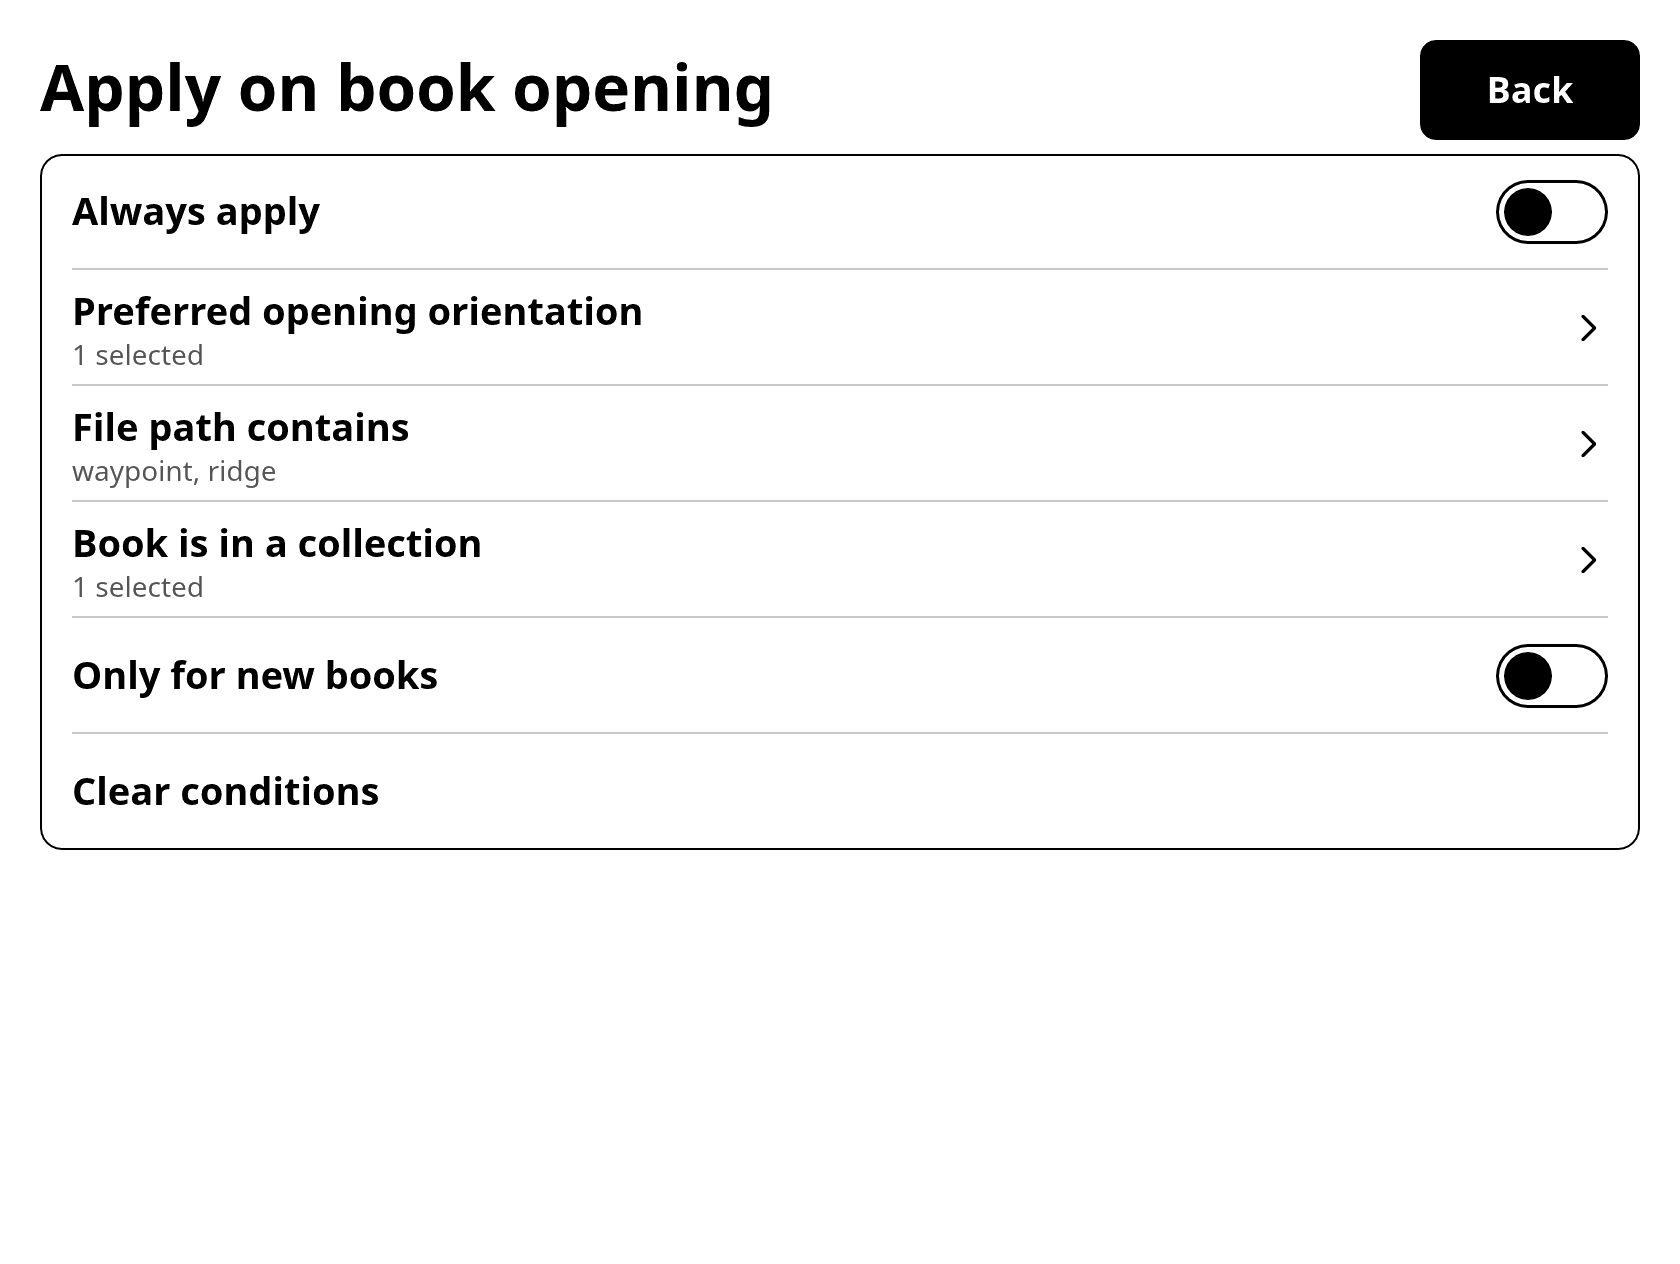
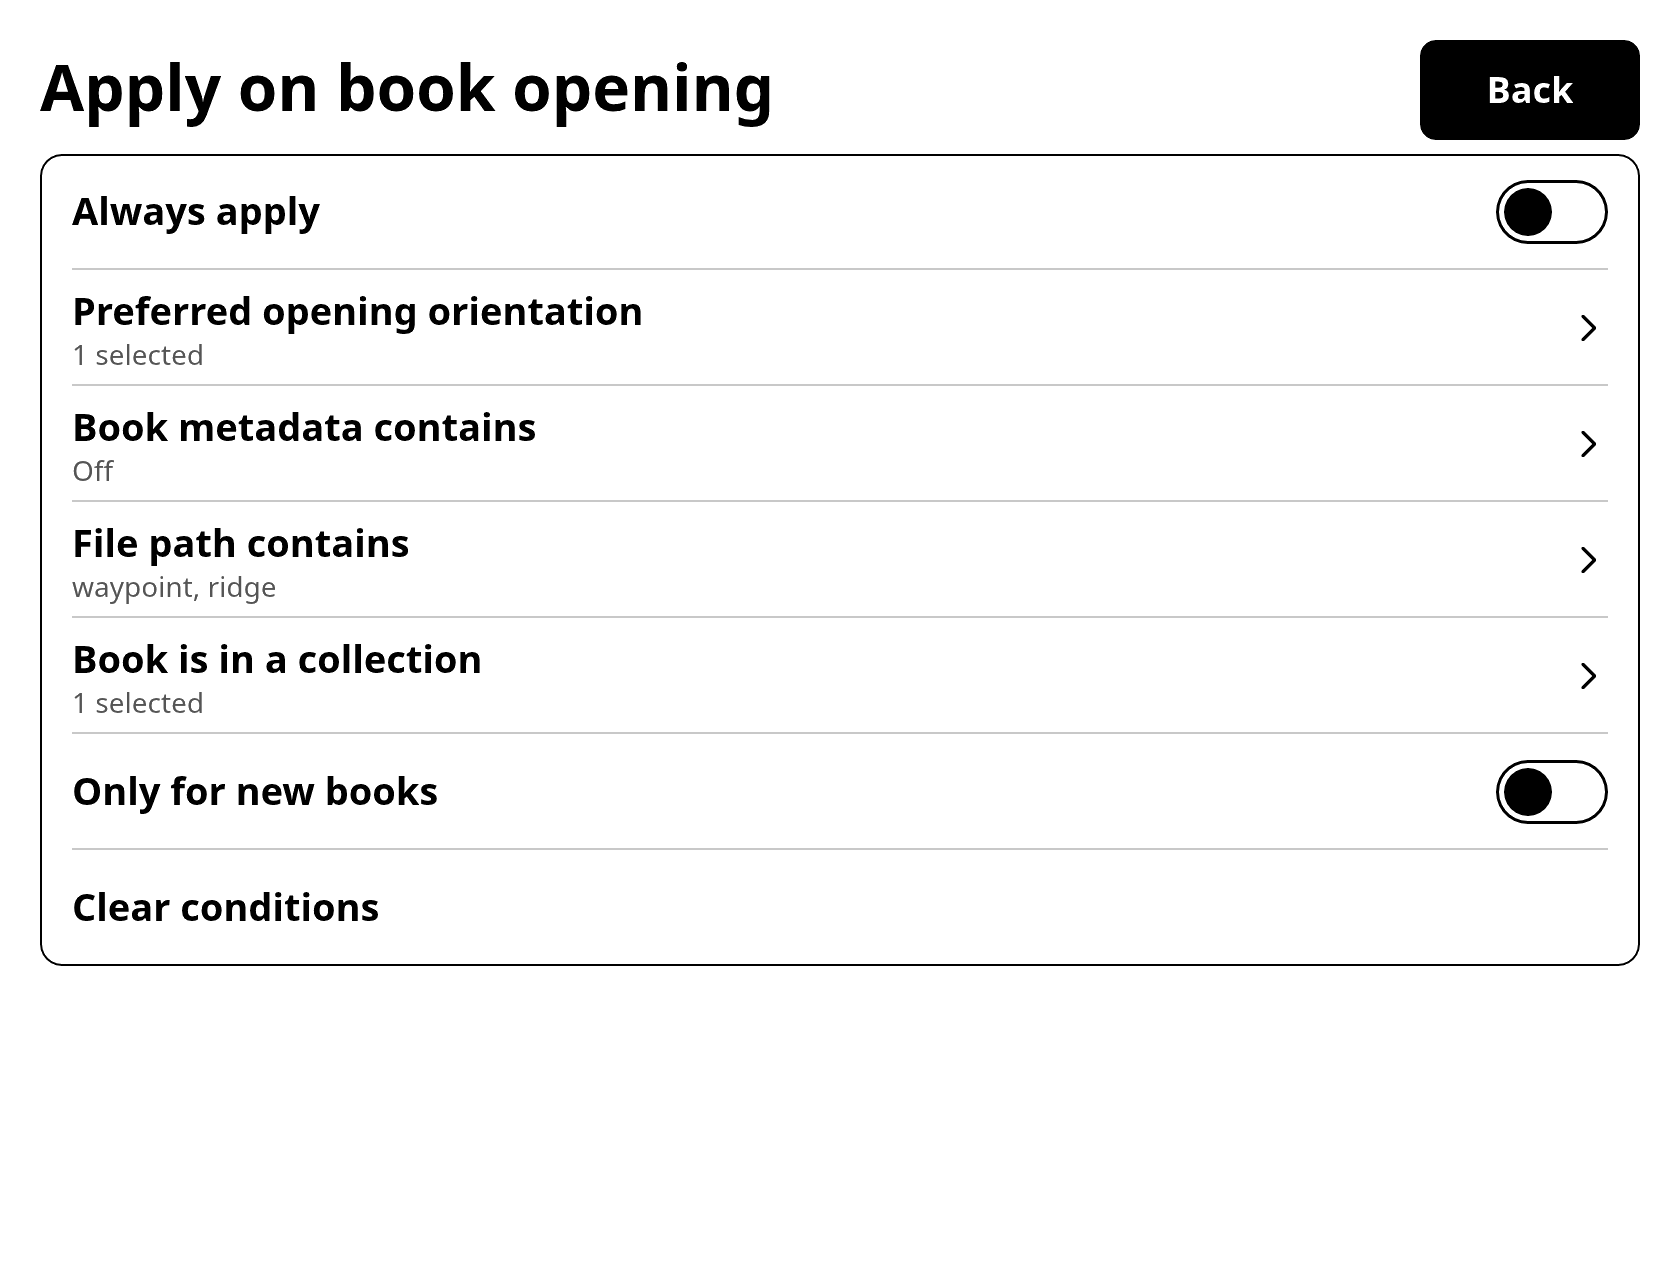
Record the accepted-turn, metadata, calendar and layout checks

diff --git a/docs/simulation-review.md b/docs/simulation-review.md
@@ -2,6 +2,53 @@
 
 ## Current Mac simulator checkpoint
 
+Reader composes book-opening profiles against the accepted screen turn
+when Launcher offers a verified viewport. The Mac transactions preserve
+the EPUB anchor, resolve competing metadata and orientation rules in list
+order, and match the committed reading frame to the candidate byte for
+byte. The PDF test rejects a landscape opening, turns a page in the
+fallback, then commits against the verified fallback turn. The desktop
+API and older Launchers continue to use the saved orientation preference.
+[Opening profiles and screenshots](reading-profiles.md#apply-a-profile-on-book-opening)
+
+Opening rules can match seven publisher metadata fields. The pinned stock
+profile callbacks and native EPUB, PDF, DjVu, and comic providers were
+checked against authored examples. Reader can fill a condition from the
+current book, including Unicode characters, and uses a filename title
+when the provider has none.
+[Metadata fields](screenshots/landscape-profile-opening-metadata.png) ·
+[Native provider comparison](../scripts/koreader-profile-metadata-providers.lua)
+
+The portrait calendar can jump to a typed month, the first recorded month,
+or the current month. Returning from a day timeline opens the month of the
+day reached. The pinned stock callbacks and Mac interaction tests cover
+these paths while preserving the reading position and statistics.
+[Calendar controls and captures](reading-statistics.md#jumping-to-a-month)
+
+The signed EPUB layout policy matches KOReader Web's paint bands for
+two negative sides, a paragraph in width-neutral wrappers, and text and
+background that extend beyond either physical screen edge. Reader clips
+the displayed selection while restoring the complete source quote.
+[Screen-edge clipping and comparisons](render-modes.md#two-negative-sides-and-clipping-at-the-screen-edge)
+
+The four-thread Mac suite passed 1,385 library tests, one Kindle entry
+test, 14 EPUB package tests, and four layout tests. Sixty-seven opt-in
+tests were skipped in the main run. The normal picker opened original
+EPUB, PDF, AZW3 and MOBI files, turned a page, and resumed at the same
+saved position with identical central page pixels and unchanged source
+hashes. The separate original-file statistics and positive-margin tests
+also passed.
+
+The Mac ARMHF release build produced a stripped, statically linked
+37,361,684-byte executable with SHA-256
[1 lines of base64/hex data omitted]
+The local hard-float stage assembled 28 files totaling 46,935,533 bytes
+uncompressed and verified the SQLite notices, embedded Launcher icon,
+and OCR model. Kindle foreground acceptance and the Store release remain
+open.
+
+## Opening conditions and grouped dictionary history checkpoint
+
 The opening-profile simulator checks conditional file paths, collections,
 preferred orientation and first-time reading. The pinned KOReader callbacks
 confirm that any configured condition can match and that the new-book gate

diff --git a/docs/reading-parity-plan.md b/docs/reading-parity-plan.md
@@ -88,14 +88,18 @@ Saved profile editing covers reflow typography, hinting, kerning,
 publisher styles and fonts, image rendering, page overlap, PDF crop
 margin, and PDF or comic scan contrast. Enabled profiles can also apply
 their included settings whenever Reader opens a matching book. The opening
-rules cover file path, collections, preferred orientation, and a separate
-new-book requirement. The orientation rule still needs to use the turn
-accepted by the display.
+rules cover file path, collections, seven metadata fields and a separate
+new-book requirement. They also use the screen turn accepted when Launcher
+offers a verified viewport. Older Launchers and the desktop API use the
+saved preference when the accepted turn is unavailable.
 Reading statistics has a whole-second duration editor with the stock
 bounds, steps, defaults and accounting. It can preview and import dated
 visits for the open PDF or self-contained DjVu book from a closed KOReader
 database chosen in Documents. Reflowable book import still needs a stable
-mapping from KOReader pages to source locations. Dictionary result arrows
+mapping from KOReader pages to source locations. The calendar can jump to
+a typed month, the first recorded month or the current month. Returning
+from a day timeline brings the calendar to the day reached in the timeline.
+Dictionary result arrows
 support held jumps to the first and last definition and
 preserve an armed highlight while switching sources. Named dictionary
 presets manage source enablement, report unavailable dictionary titles and
@@ -107,6 +111,7 @@ and provides its own recording and clearing controls.
 [Opening profiles](reading-profiles.md#apply-a-profile-on-book-opening) ·
 [Page duration limits](reading-statistics.md#page-duration-limits) ·
 [Fixed-page statistics import](reading-statistics.md#import-koreader-statistics-for-a-pdf-or-djvu-book) ·
+[Calendar month navigation](reading-statistics.md#jumping-to-a-month) ·
 [Dictionary result navigation](dictionary-popup-display.md#first-and-last-results) ·
 [One-query preset](shared-dictionaries.md#searching-with-a-preset-once) ·
 [Dictionary history](shared-dictionaries.md#dictionary-history)
@@ -117,8 +122,9 @@ centered container around ordinary paragraphs. They also match
 the measured definite box heights and preserve text and source positions when
 a box's background fills across a page break. In supported ordinary
 paragraphs, the opt-in policies also match stock's positive physical
-margins, Web mode's single bounded negative side, and explicit opening
-breaks inside keep groups and beside a sibling keep. Full Render Mode
+margins, Web mode's signed sides with physical screen clipping inside
+ordinary wrappers, and explicit opening breaks inside keep groups and
+beside a sibling keep. Full Render Mode
 behavior and its user-facing choices remain open. [Publisher comparisons](render-modes.md)
 
 

diff --git a/docs/reading-profiles.md b/docs/reading-profiles.md
@@ -78,18 +78,21 @@ shows a notice. The EPUB tests check a saved
 passage after restart. The PDF test checks the exact physical page,
 tiled zoom and overlap after combining two profiles.
 
-The pinned comparison exercises Always, orientation, path, collection
-and all seven metadata fields, and the separate new-book gate. Stock
+The pinned comparison exercises Always, orientation, path, collection,
+all seven metadata fields, and the separate new-book gate. Stock
 reader-ready metadata may include KOReader custom sidecar overrides.
 Reader uses publisher data and its filename fallback. On the same authored
 PDF the pinned MuPDF interface leaves catalog language unavailable.
 On a numeric series index its matching utility raises a Lua error. Reader
 matches a published index as text and rejects empty comma alternatives.
 The native provider comparison uses authored EPUB, PDF, DjVu and CBZ
-documents. Matching the accepted display turn, folder shortcut expansion,
+documents. The Mac transaction tests check mixed metadata and screen-turn
+rules, byte-identical staged and accepted frames, and a PDF's position
+through a rejected turn. The legacy display path still uses the preferred
+orientation. Folder shortcut expansion, custom sidecar metadata,
 confirmation and scheduling remain open.
 [Landscape simulator capture](screenshots/landscape-profile-apply-on-opening.png) ·
-[Opening conditions in landscape](screenshots/landscape-profile-opening-conditions.png) ·
+[Opening conditions in the legacy display path](screenshots/landscape-profile-opening-conditions.png) ·
 [Current book path shortcut](screenshots/landscape-profile-current-book-path.png) ·
 [Opening metadata fields](screenshots/landscape-profile-opening-metadata.png) ·
 [Current book metadata shortcut](screenshots/landscape-profile-current-book-metadata.png) ·
